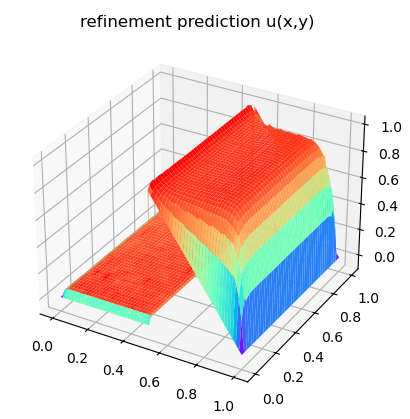
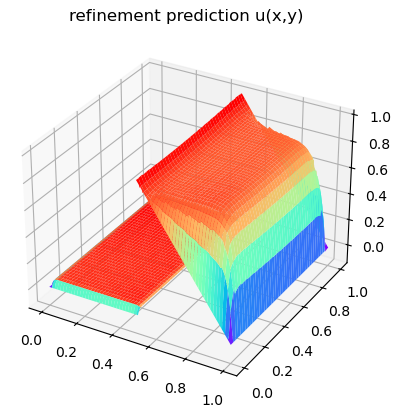
corrected the definition of b in 2d-singular

diff --git a/DeepONet-type/2d-singular/train.py b/DeepONet-type/2d-singular/train.py
@@ -189,7 +189,7 @@ def c(x,y):
     return a*1000.0
 
 def b(x,y):
-    if x > 1/2:
+    if x >= 1/2:
         a = 2*(1-x)
     else:
         a = 0
